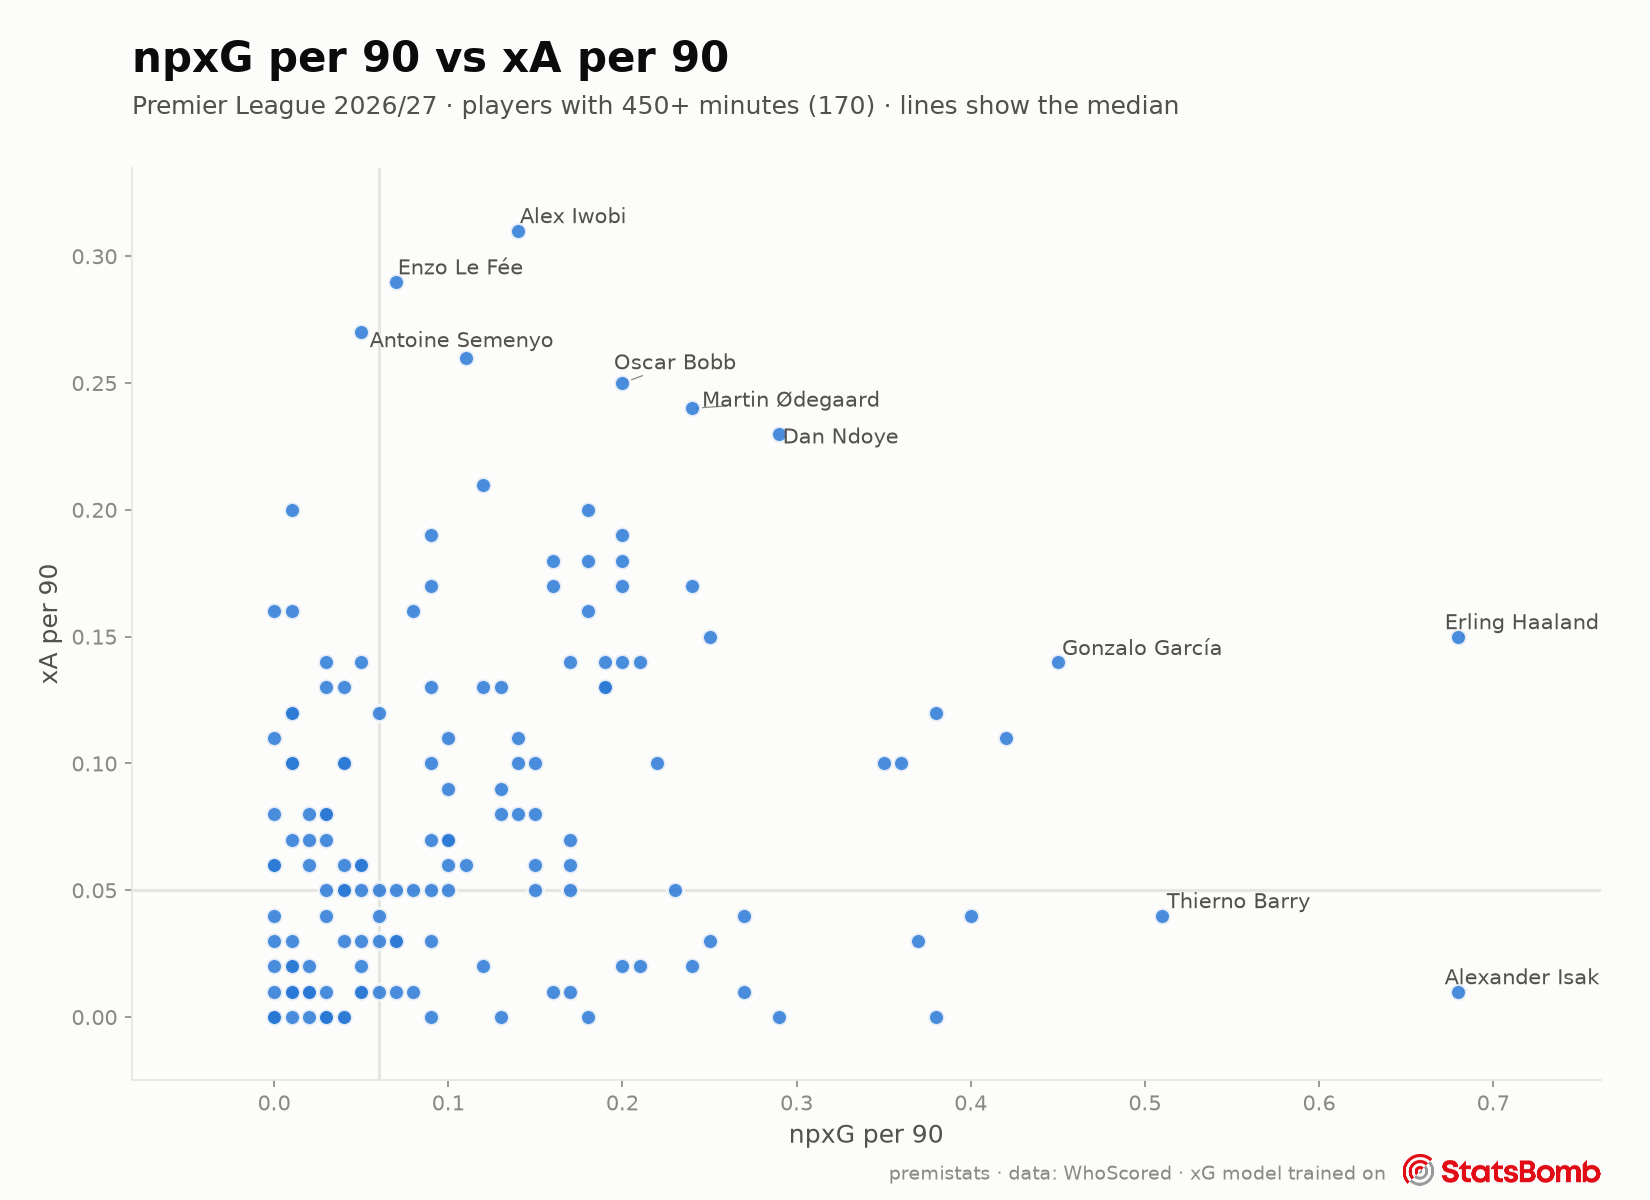
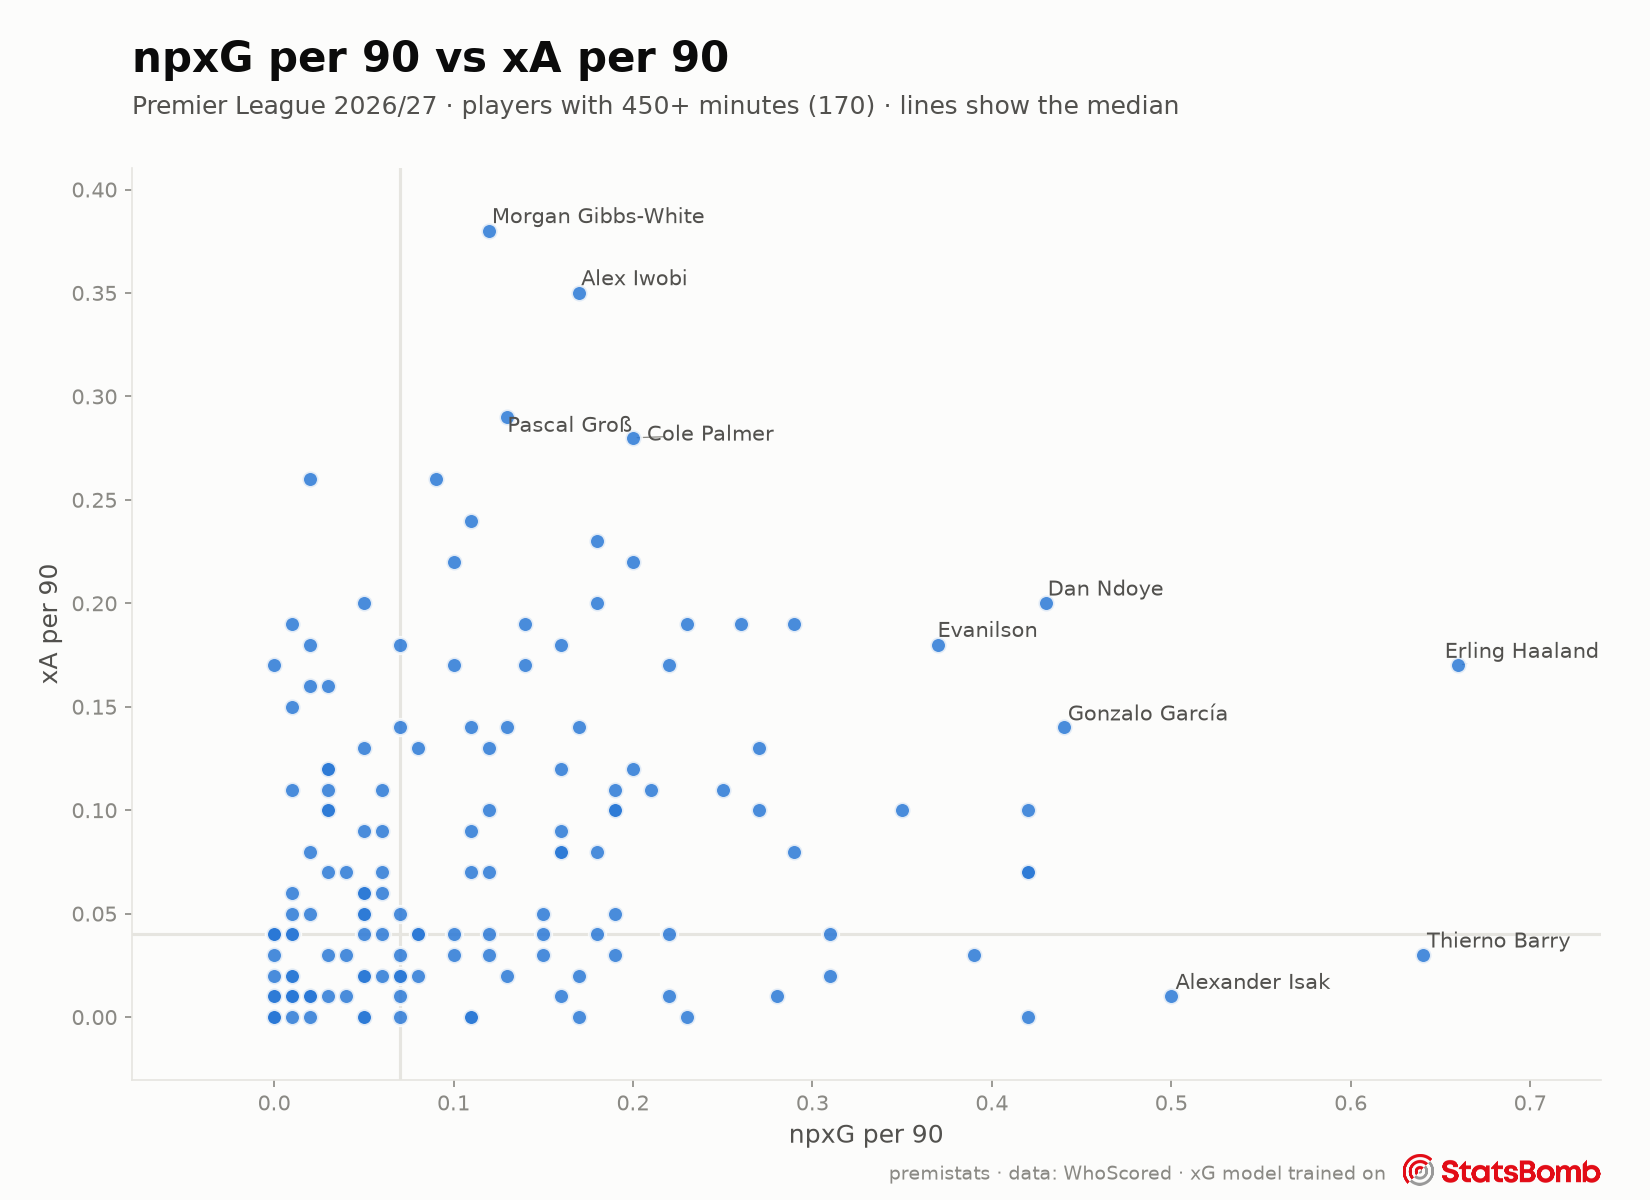
Fit xG stage 2 on full 2025/26 and validate on 2026/27
- Corrected xG: log loss 0.2954 -> 0.2736, ROC AUC 0.721 -> 0.759 on an unseen season,
  xG within 1% of goals; r = 0.96 vs Understat per team-match (was 0.89)
- Generated report docs/xg_calibration.md + calibration chart
- Minutes test allows 0-minute cameos (found in 2025/26)
- Decision 022, roadmap (Phase 2 done), README, refreshed charts

diff --git a/xg/calibrate.py b/xg/calibrate.py
@@ -90,7 +90,7 @@ def plot(test: pd.DataFrame, season: str, out: Path) -> None:
         frac, mean_pred = calibration_curve(test["is_goal"], test[col], n_bins=10, strategy="quantile")
         ax.plot(mean_pred, frac, color=colour, lw=2, marker="o", ms=6, markeredgecolor=SURFACE,
                 markeredgewidth=1.5, label=label, zorder=3)
-    lim = 0.65
+    lim = 0.5
     ax.set_xlim(0, lim)
     ax.set_ylim(0, lim)
     ax.set_xlabel("Predicted xG", fontsize=12, color=INK_2)

diff --git a/docs/ROADMAP.md b/docs/ROADMAP.md
@@ -13,7 +13,7 @@ Estimates assume roughly **10–15 hours a week**. Each phase includes a few day
 | Phase | Dates | Goal | Status |
 |---|---|---|---|
 | 1. Foundations & pipeline | 19 Oct | Data in, cleaned, tested | ✅ Done |
-| 2. xG model | 20 Oct – 1 Nov | Our own xG, trained and evaluated | ⏳ In progress (v1 done 21 Oct) |
+| 2. xG model | 20 Oct – 1 Nov | Our own xG, trained and evaluated | ✅ Done 21 Oct (write-up left) |
 | 3. Match & team analytics | 2 Nov – 15 Nov | Match pages' data, team style, export layer | |
 | 4. Website MVP | 16 Nov – 13 Dec | Live site with the core visuals | |
 | 🚀 **Public beta** | **14 Dec** | Shareable before the busy Christmas fixtures | |
@@ -49,8 +49,8 @@ Estimates assume roughly **10–15 hours a week**. Each phase includes a few day
 - [x] Evaluate: log loss, Brier, ROC AUC, calibration plot, feature importance → `docs/xg_model.md`
 - [x] Apply to WhoScored shots inside dbt (Python model `shot_xg`) + 3 new tests
 - [x] Compare against Understat: r = 0.89 per team-match, but 18% lower → big chances under-rated (decision 021)
-- [ ] Backfill 2025/26 (brought forward from Phase 6) and train the big-chance calibration stage on it
-- [ ] Re-validate calibrated xG on 2026/27
+- [x] Backfill 2025/26 (brought forward from Phase 6): 380 matches, 0 failures; stage 2 calibration trained on it
+- [x] Re-validate on 2026/27: r = 0.96 vs Understat, xG within 1% of goals (decision 022)
 - [x] Add xG / npxG / xA / goals − xG / npxG per shot to `player_season_stats`
 - [ ] Link players across WhoScored and Understat (names differ, e.g. accents)
 - [ ] ✍ **You write:** "Building an xG model from scratch" (write-up #1)
@@ -98,7 +98,8 @@ Estimates assume roughly **10–15 hours a week**. Each phase includes a few day
 
 ## Phase 6: Past season + polish (11 Jan – 31 Jan)
 
-- [ ] Backfill 2025/26 (all 380 matches) and add a season switcher on the site
+- [x] ~~Backfill 2025/26~~ (done early, 21 Oct)
+- [ ] Add a season switcher on the site
 - [ ] GitHub Actions CI: lint, dbt tests on sample data, site build; badges in the README
 - [ ] Performance and accessibility pass; fix beta feedback
 - [ ] README as a case study: architecture diagram, lineage, lessons learned

diff --git a/docs/decisions.md b/docs/decisions.md
@@ -92,3 +92,10 @@ On held-out matches (split by match to stop leakage): baseline log loss 0.2727 /
 **Date:** 2026-10-21
 Against Understat on 2026/27, our xG agrees per team per match (r = 0.89) but totals 18% lower (189 vs 232; actual goals 195). Splitting by WhoScored's big-chance flag shows why: big chances convert at 31.6% but we average 24.6%, while other shots convert at 5.1% against our 6.2%. Without defender positions, the model can't tell a tap-in from a crowded shot taken from the same spot.
 **Plan:** keep the StatsBomb model and add a small calibration stage (logistic regression on the base model's logit + the big-chance flag), **trained on the 2025/26 PL season and tested on 2026/27**, so the test season is never used for fitting.
+
+### 022: Stage 2 calibration results, and what they say about Understat
+**Date:** 2026-10-21
+Fitted on all 380 matches of 2025/26 and tested on 2026/27 (never used for fitting), non-penalty shots: log loss 0.2954 → **0.2736**, ROC AUC 0.721 → **0.759**, sum of xG 181.4 → **185.6** against 187 goals. Agreement with Understat per team-match rose from r = 0.89 to **r = 0.96**.
+Our totals now track actual goals (2025/26: 995 xG vs 1,005 goals; 2026/27: 194 vs 195). **Understat's xG totals ran ~18% above actual goals in both seasons** (2025/26: 1,184 vs 1,004), far beyond what luck explains over 380 matches. We report this as an observed difference, not as Understat being "wrong": their model and shot definitions may differ from ours.
+**Also:** the minutes test now allows 0. Leny Yoro came on in the 100th, final minute of Man Utd v Liverpool (2025/26): a real appearance with no time on the clock.
+**Caveat (worth knowing for interviews):** the fitted slope on the base model's logit is only 0.31, while the big-chance coefficient is 1.99. Once the model knows whether a shot was a big chance, location adds less than you'd expect, so stage 2 leans heavily on WhoScored's (human-judged) big-chance tag. If WhoScored changed how it tags big chances, the calibration would need refitting.

diff --git a/README.md b/README.md
@@ -1,6 +1,6 @@
 # premistats
 
-Free, advanced Premier League stats and visualisations: shot maps, heatmaps, xG, pass networks and a build-your-own chart tool. Focused on the 2026/27 season.
+Free, advanced Premier League stats and visualisations: shot maps, heatmaps, xG, pass networks and a build-your-own chart tool. 2026/27 season, with 2025/26 archived.
 
 > 🚧 Early development. Currently: the ingestion pipeline and prototype charts.
 
@@ -40,6 +40,6 @@ python -m analysis.player_touches data/raw/whoscored/2627/<match_id>.json.gz "De
 
 Data is collected from public match centres (Understat for shots and xG, WhoScored for event data). Raw scraped data is never republished. The site shows only derived statistics, our own model outputs and charts. If you're a rights holder with concerns, please open an issue.
 
-**xG model:** trained on [StatsBomb open data](https://github.com/statsbomb/open-data) under the StatsBomb Public Data User Agreement (research use, non-commercial, attribution). See [docs/xg_model.md](docs/xg_model.md) for the model card and validation results.
+**xG model:** trained on [StatsBomb open data](https://github.com/statsbomb/open-data) under the StatsBomb Public Data User Agreement (research use, non-commercial, attribution). See [docs/xg_model.md](docs/xg_model.md) for the base model card and [docs/xg_calibration.md](docs/xg_calibration.md) for the Premier League calibration stage (tested on a season it never saw: xG within 1% of actual goals).
 
-![xG calibration](docs/img/xg_calibration.png)
+![xG calibration, PL 2026/27](docs/img/xg_stage2_calibration.png)

diff --git a/docs/metrics.md b/docs/metrics.md
@@ -9,7 +9,7 @@ right touchline from the attacker's view. Distances in metres assume a 105 × 68
 ## Playing time
 | Metric | Definition |
 |---|---|
-| Minutes | Time on the pitch using WhoScored's *expanded* minute, which includes stoppage time, so a full match is often 95–100. Starters begin at 0, subs at their entry minute. Players stop at their substitution, a red card, or full time. |
+| Minutes | Time on the pitch using WhoScored's *expanded* minute, which includes stoppage time, so a full match is often 95–100. Starters begin at 0, subs at their entry minute. Players stop at their substitution, a red card, or full time. A sub brought on in the final minute can have 0 minutes: they still count as an appearance. |
 | Per 90 (`_p90`) | `count × 90 / minutes`. Be careful with small samples: compare players with at least ~450 minutes. |
 
 ## Passing
@@ -53,5 +53,5 @@ Full details, results and limitations: [xg_model.md](xg_model.md). Model trained
 ## Data checks that run on every build
 - Each match's goals credited to players, plus own goals, equal the final score.
 - Each team's player-minutes add up to 11 × match length, allowing for red cards (±5 min).
-- Event, player-match and player-season rows are unique; minutes are between 1 and 140.
+- Event, player-match and player-season rows are unique; minutes are between 0 and 140.
 - Every team name maps to a short code and across both sources (`seeds/team_names.csv`).

diff --git a/docs/xg_calibration.md b/docs/xg_calibration.md
@@ -1,0 +1,31 @@
+# xG stage 2: Premier League calibration
+
+*Generated by `python -m xg.calibrate` on 21 Oct 2026. Do not edit by hand.*
+
+The base model ([xg_model.md](xg_model.md)) can't see where defenders and the goalkeeper are, so it under-rates big chances and over-rates other shots (decision 021). Stage 2 corrects this with WhoScored's big-chance flag:
+
+`xG = sigmoid(a + b·logit(base xG) + c·big_chance + d·big_chance·logit(base xG))`
+
+- **Fitted on:** Premier League 2025/26 (9,411 non-penalty shots)
+- **Tested on:** Premier League 2026/27, a different season, never used for fitting
+- **Coefficients:** a = -2.112, b = 0.311, c = 1.993, d = 0.132
+
+## Results on 2026/27 (non-penalty shots)
+
+| | Log loss | Brier | ROC AUC | Sum of xG | Goals |
+|---|---|---|---|---|---|
+| Base model | 0.2954 | 0.0824 | 0.721 | 181.4 | 187 |
+| Calibrated (stage 2) | 0.2736 | 0.0773 | 0.759 | 185.6 | 187 |
+
+### By shot type
+
+| | Shots | Goals | Base xG | Calibrated xG |
+|---|---|---|---|---|
+| Big chances | 339 | 107 | 83.5 | 113.6 |
+| Other shots | 1,574 | 80 | 97.9 | 72.0 |
+
+![Calibration by season](img/xg_stage2_calibration.png)
+
+Data: WhoScored (shots, big-chance flag). Base model trained on StatsBomb open data.
+
+<img src="img/statsbomb_logo.png" alt="StatsBomb" height="24">
